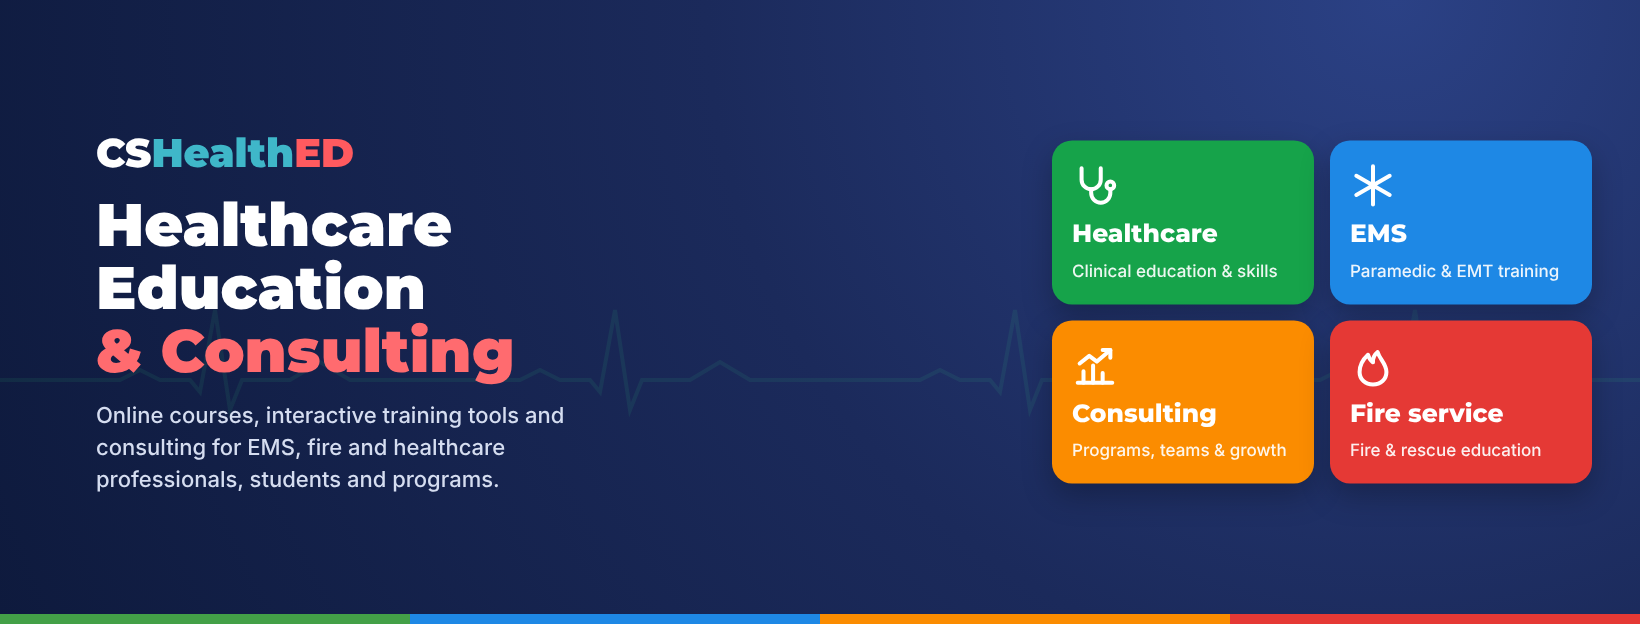
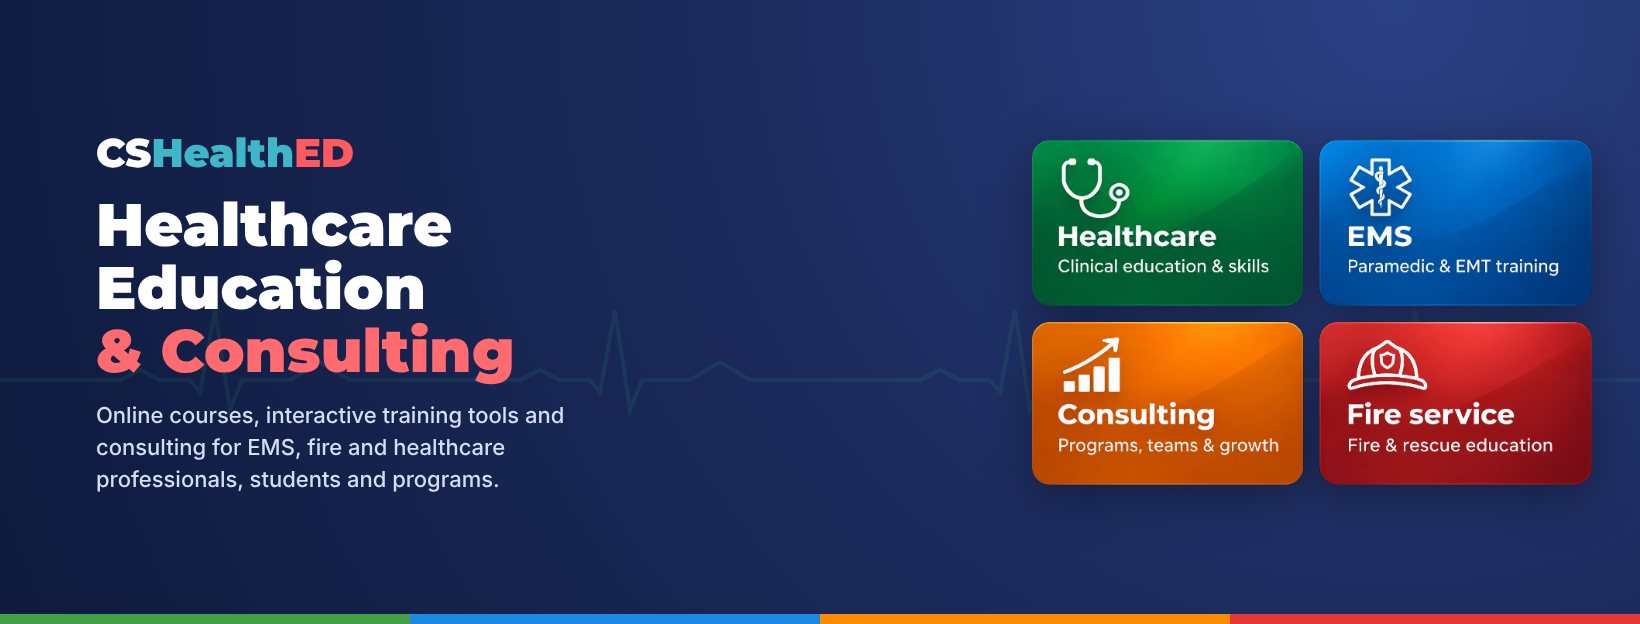
Facebook cover: use the supplied tile artwork for the four service boxes
Claude-Session: https://claude.ai/code/session_01DR1EvY5wHc4cey7e94tLNU

Changed region(s): [[0.622, 0.2131, 0.9951, 0.7917], [0.7152, 0.2131, 0.7463, 0.2436]]

diff --git a/marketing/src/cover-company.html b/marketing/src/cover-company.html
@@ -27,12 +27,7 @@ p{font-size:22px;color:#d5ddf0;margin:18px 0 0;line-height:1.45}
       <h1>Healthcare Education<br><span>&amp; Consulting</span></h1>
       <p>Online courses, interactive training tools and consulting for EMS, fire and healthcare professionals, students and programs.</p>
     </div>
-    <div class="right grid">
-      <div class="tile" style="background:#16a34a"><svg viewBox="0 0 24 24"><path d="M5 3v6a5 5 0 0 0 10 0V3"/><path d="M10 14v2a5 5 0 0 0 10 0v-2"/><circle cx="20" cy="12" r="2"/></svg><b>Healthcare</b><small>Clinical education &amp; skills</small></div>
-      <div class="tile" style="background:#1e88e5"><svg viewBox="0 0 24 24"><path d="M12 2v20M3.3 7l17.4 10M20.7 7 3.3 17"/></svg><b>EMS</b><small>Paramedic &amp; EMT training</small></div>
-      <div class="tile" style="background:#fb8c00"><svg viewBox="0 0 24 24"><path d="M3 21h18"/><path d="M6 21v-6M11 21v-9M16 21v-5"/><path d="M4 11l5-4 4 3 7-6"/><path d="M16 4h4v4"/></svg><b>Consulting</b><small>Programs, teams &amp; growth</small></div>
-      <div class="tile" style="background:#e53935"><svg viewBox="0 0 24 24"><path d="M12 22c4 0 7-2.7 7-6.6 0-4.4-3.6-6.6-4.6-10.4-1.9 1.5-2.5 3.6-2.4 5.4C10.6 9.3 9.7 7.9 9.4 6.4 6.8 8.8 5 11.6 5 15.4 5 19.3 8 22 12 22z"/></svg><b>Fire service</b><small>Fire &amp; rescue education</small></div>
-    </div>
+    <img class="right" src="tiles.png" alt="" style="width:560px;filter:drop-shadow(0 12px 24px rgba(0,0,0,.35))">
   </div>
   <div class="bar"></div>
 </div>
